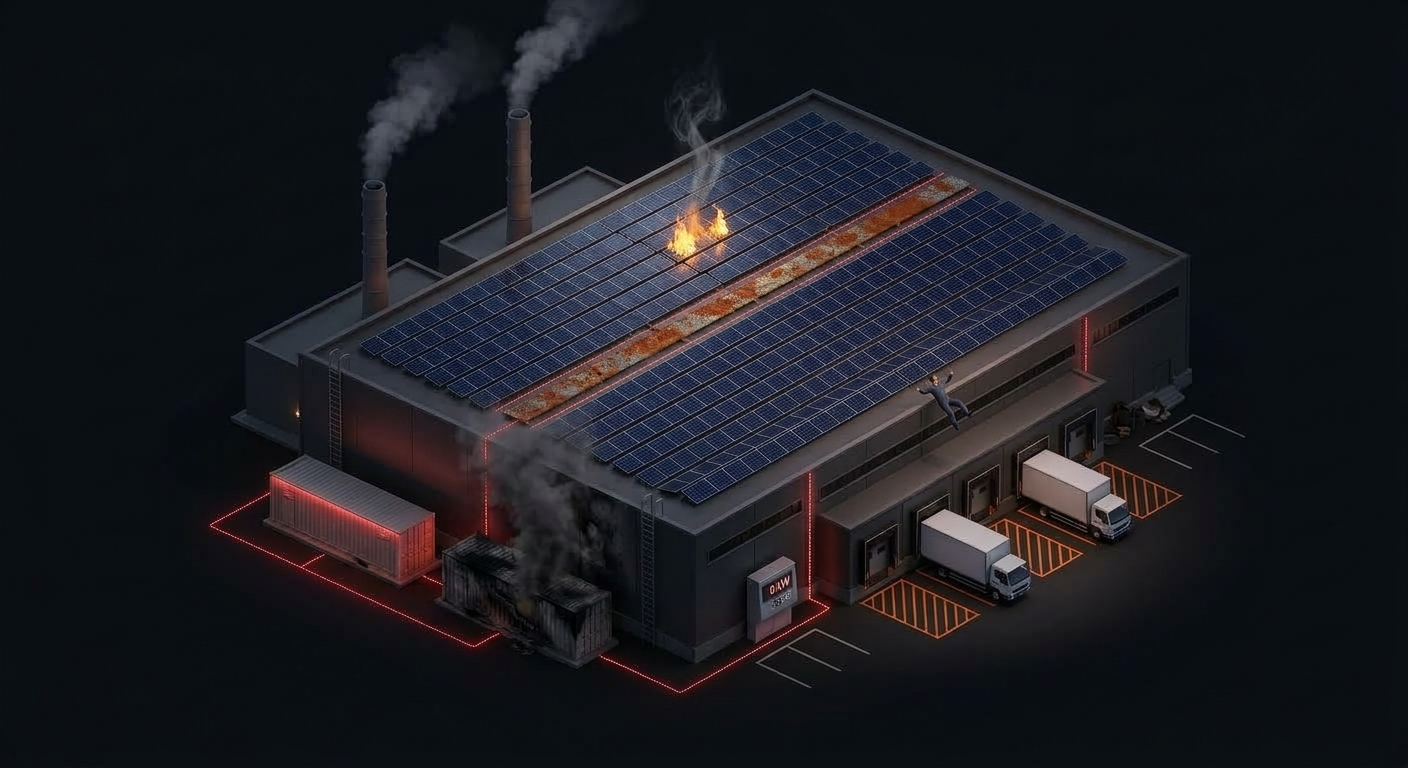
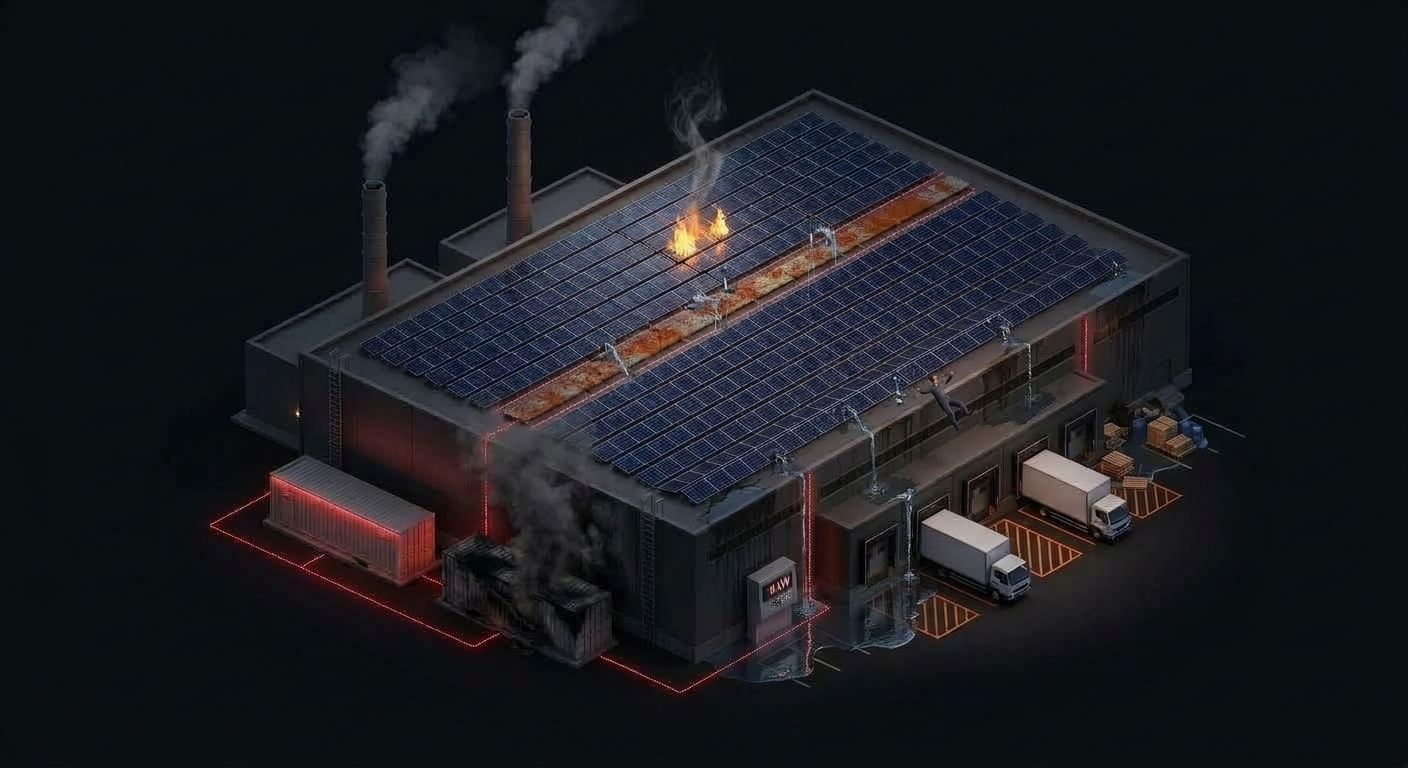
**Roof Leakage Added to Infographic — complete** - Yes, it was possible — the failure render now also shows poor waterproofing: water streaming through badly sealed roof penetrations, dark wet stains running down the factory walls, puddles pooling on the ground, and pallets of goods getting splashed

diff --git a/tools/add_leakage_to_infographic.py b/tools/add_leakage_to_infographic.py
@@ -1,0 +1,60 @@
+#!/usr/bin/env python3
+"""Add roof-leakage damage to the 'cheap solar failure' infographic.
+
+Edits the existing render in place (same output path) so the website picks it
+up without code changes.
+"""
+
+import asyncio
+import base64
+import os
+import sys
+
+from dotenv import load_dotenv
+from emergentintegrations.llm.chat import LlmChat, UserMessage, ImageContent
+
+load_dotenv("/app/backend/.env")
+
+SRC = "/app/frontend/public/images/infographics/cheap-solar-failure.png"
+OUT = "/app/frontend/public/images/infographics/cheap-solar-failure.png"
+
+PROMPT = (
+    "Keep this image exactly as it is — same isometric factory, same dark style, "
+    "same red fault lines, same panel fire, rusty walkway, falling worker, smoking "
+    "battery and '0 kW' meter — but ADD clear signs of ROOF LEAKAGE from poor "
+    "workmanship: rainwater dripping and streaming through badly sealed solar "
+    "panel mounting penetrations, visible as several thin water streams and drips "
+    "falling from the roof edge and under the panel rows; dark wet water stains "
+    "streaking down the building's wall cladding beneath the roof line; and a "
+    "reflective puddle pooling on the ground at the base of the wall, slightly "
+    "splashing onto wooden pallets / stored goods next to the loading bay. Subtle, "
+    "realistic, same lighting and palette. Do not remove or alter any existing "
+    "element."
+)
+
+
+async def main():
+    api_key = os.getenv("EMERGENT_LLM_KEY")
+    if not api_key:
+        sys.exit("EMERGENT_LLM_KEY missing")
+
+    with open(SRC, "rb") as f:
+        ref_b64 = base64.b64encode(f.read()).decode("utf-8")
+
+    chat = LlmChat(api_key=api_key, session_id="gjw-failure-leak-edit",
+                   system_message="You are a precise technical illustrator.")
+    chat.with_model("gemini", "gemini-3.1-flash-image-preview").with_params(
+        modalities=["image", "text"])
+
+    msg = UserMessage(text=PROMPT, file_contents=[ImageContent(ref_b64)])
+    text, images = await chat.send_message_multimodal_response(msg)
+    print("text:", (text or "")[:200])
+    if not images:
+        sys.exit("no image returned")
+    data = base64.b64decode(images[0]["data"])
+    with open(OUT, "wb") as f:
+        f.write(data)
+    print("saved", OUT, len(data), "bytes")
+
+
+asyncio.run(main())

diff --git a/memory/PRD.md b/memory/PRD.md
@@ -167,6 +167,10 @@ Full refinement brief applied without redesign:
 - testids: value-band-zoom-toggle, value-band-lightbox, value-band-lightbox-image, value-band-lightbox-close
 - Verified via browser automation: section render, lightbox open, click-point zoom (transform scale(2.2) at clicked origin), ESC close
 
+## Iteration 25 — Failure Infographic: Roof Leakage (2026-09-09)
+- Edited cheap-solar-failure.png in place via image-edit pass (tools/add_leakage_to_infographic.py): added water streaming through badly sealed roof penetrations, wet stains streaking down wall cladding, ground puddles, splashed pallets/goods at loading bay — all prior failure elements (fire, rust, worker, smoke, 0 kW meter, red fault lines) preserved
+- No code change needed (same file path); verified live: image loads in value-band
+
 ## Backlog
 - P0: Replace placeholder contact details with real email/phone; real headshot for Project Lead panel; real per-case-study photos (user sending)
 - P1: Email notification on enquiry (Resend); simple admin view/password for enquiries; SEO meta/OG images per page
